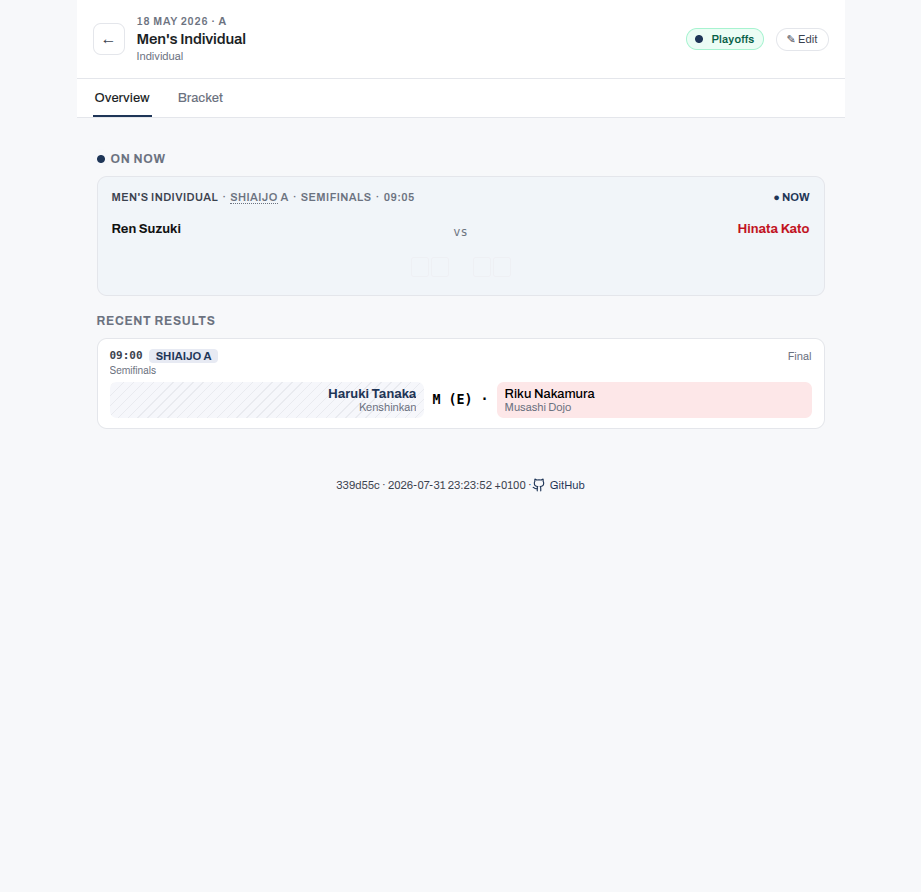
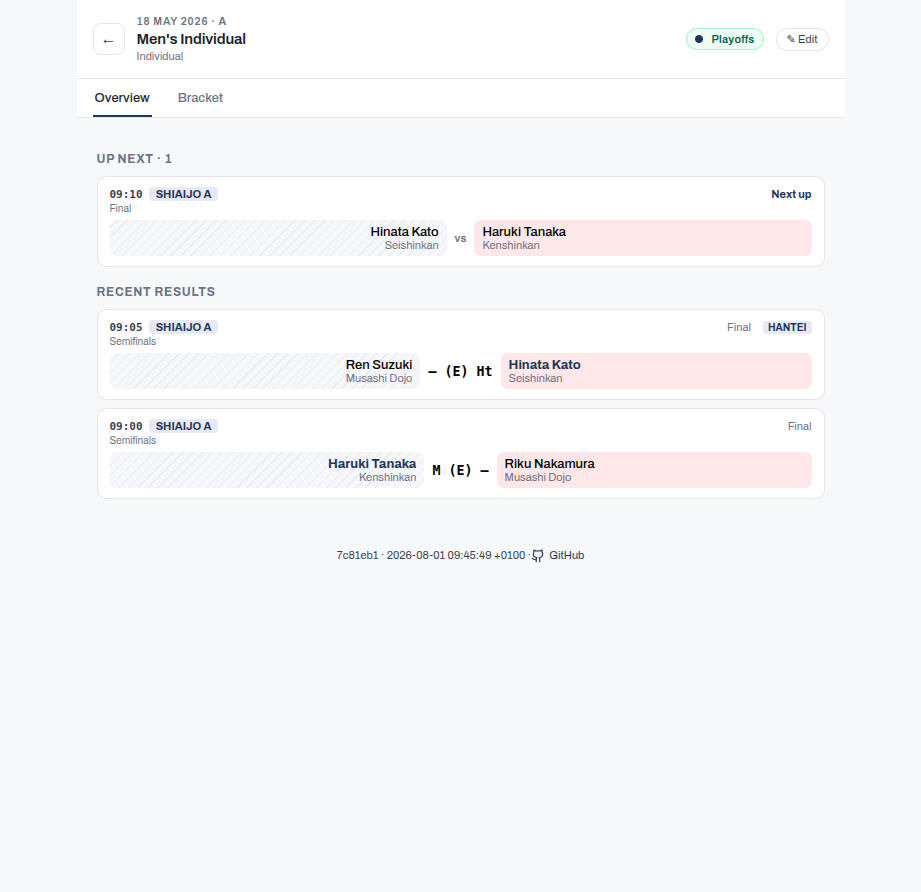
docs(mp-m4bn): refresh the viewer screenshot for the vs/dash score grammar
Captured at 7c81eb1a: an overtime win now reads M (E) dash and the 0-0
hantei result reads dash (E) Ht with the mark beside the winner. The
previous shot showed the retired dot placeholder.

diff --git a/docs/user-guide/court-operators/recording-decisions.md b/docs/user-guide/court-operators/recording-decisions.md
@@ -38,7 +38,7 @@ Completed results follow the paper score sheet's layout. The centre, between the
 
 Everything else is a result, written beside the competitor it names: **Ht** next to the winner of a judges' decision, **Kiken** next to the competitor who withdrew, **Fus.** next to a no-show. A match decided by hantei after a tied overtime reads **M Ht (E) K**, with the winner's mark on the winner's side of the centre. A team encounter shows its team totals in the score cell instead, so for those the marks appear on the bracket and in the exported workbook.
 
-![A completed result on the public viewer: the winner's men ippon on the left, the E overtime marker in the centre between the two scores, and the opponent on the right.](../../screenshots/viewer-result-encho.png)
+![Two completed results on the public viewer: an overtime win reading M, the E marker, then a dash for the side with no points, and a hantei result with the Ht mark beside the winner.](../../screenshots/viewer-result-encho.png)
 
 ## Daihyosen
 
